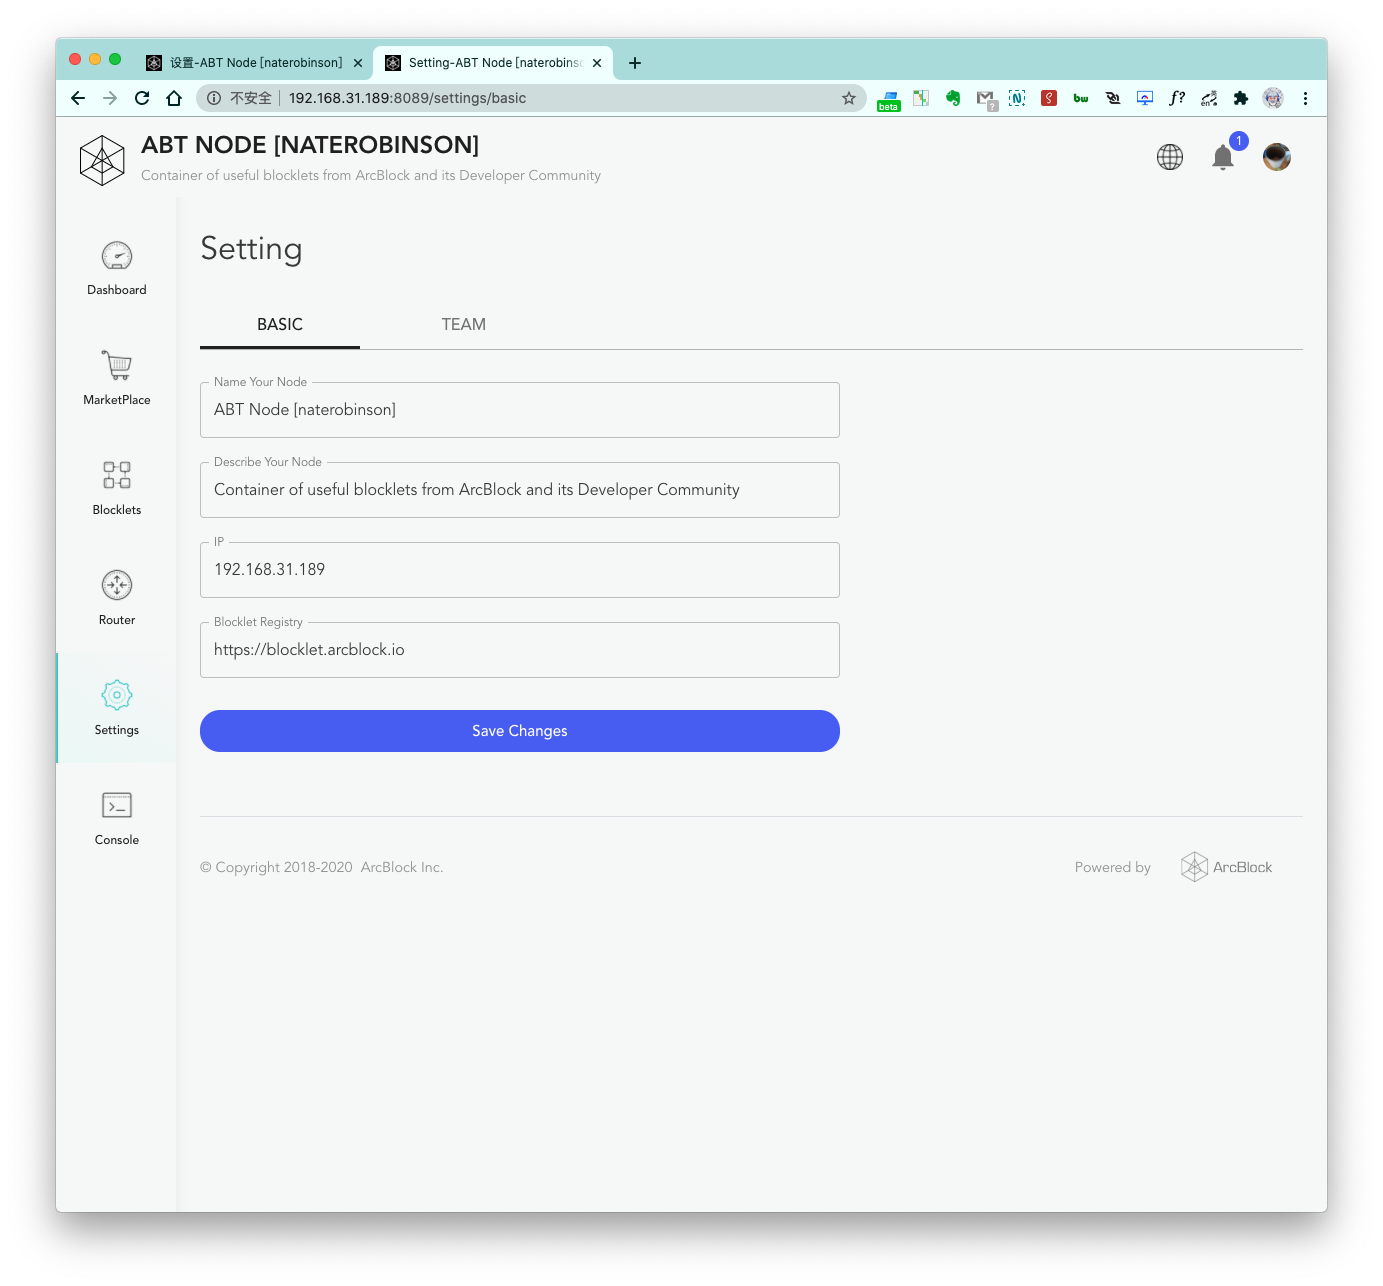
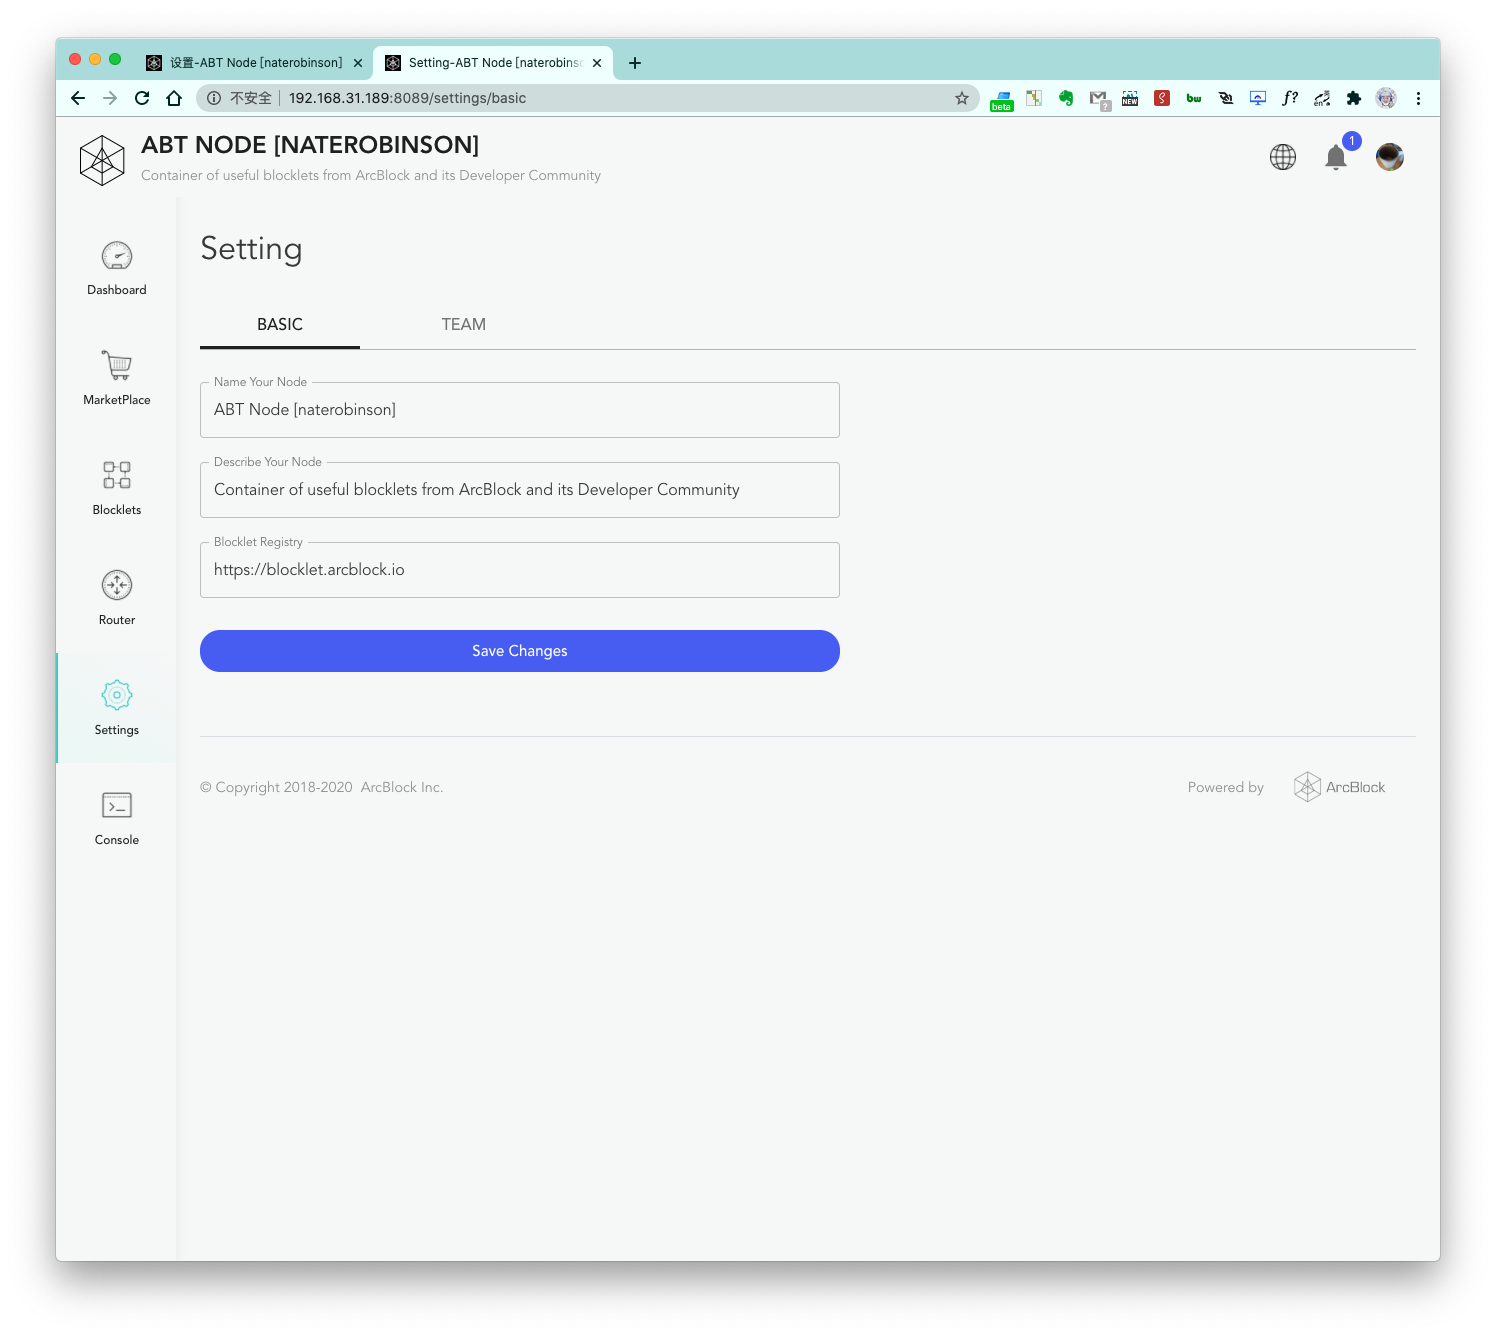
fix #20 update node settings doc

diff --git a/src/misc/node-settings/index.zh.md b/src/misc/node-settings/index.zh.md
@@ -21,10 +21,10 @@ tags:
 
 用于节点控制台页面顶部的展示。
 
-### IP
-
-当前节点的 IP 地址，一般默认生成，无需手动更改。
-
 ### 应用市场地址
 
-一般默认配置即可，用于配置 `市场` 页面获取 Blocklet 列表的数据源。
+一般默认配置即可，用于配置 `市场` 页面获取 Blocklet 列表的数据源。目前，ArcBlock 官方提供了两个 blocklet registry 地址：
+
+1. [https://blocklet.arcblock.io](https://blocklet.arcblock.io)
+
+2. [https://blocklet.arcblockio.cn](https://blocklet.arcblockio.cn)

diff --git a/src/misc/node-settings/index.md b/src/misc/node-settings/index.md
@@ -22,11 +22,13 @@ accessing.
 
 Displayed at the top of the node console page.
 
-### IP
-
-This field is set automatically and does not need to be changed manually.
-
 ### Blocklet Registry
 
 The blocklet registry defines which blocklets are available in the marketplace. Usually, using the default market
 registry is sufficient.
+
+Currently, ArcBlock provide two blocklet registry:
+
+1. [https://blocklet.arcblock.io](https://blocklet.arcblock.io)
+
+2. [https://blocklet.arcblockio.cn](https://blocklet.arcblockio.cn)
